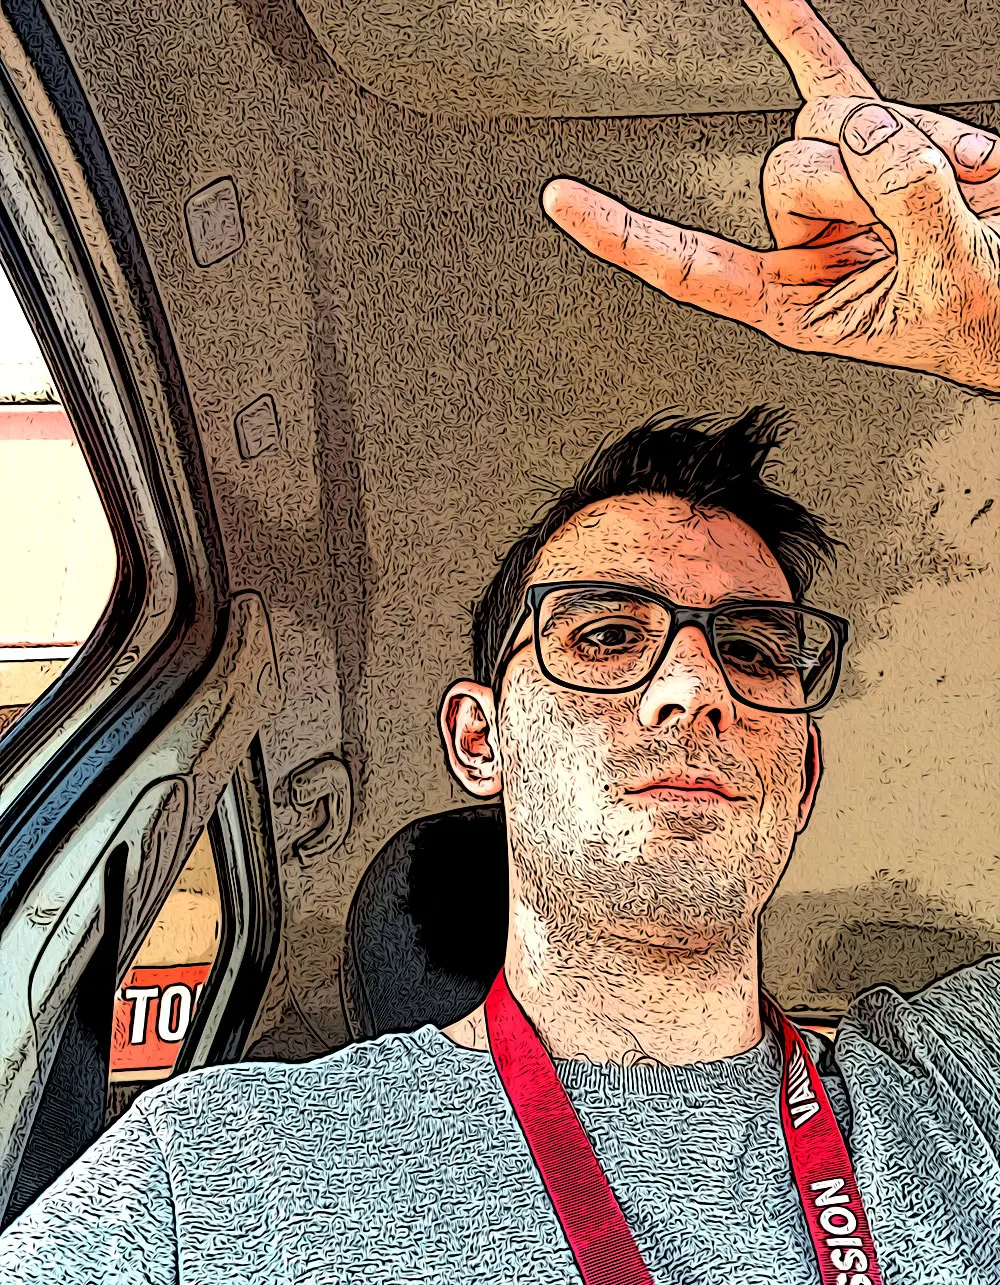
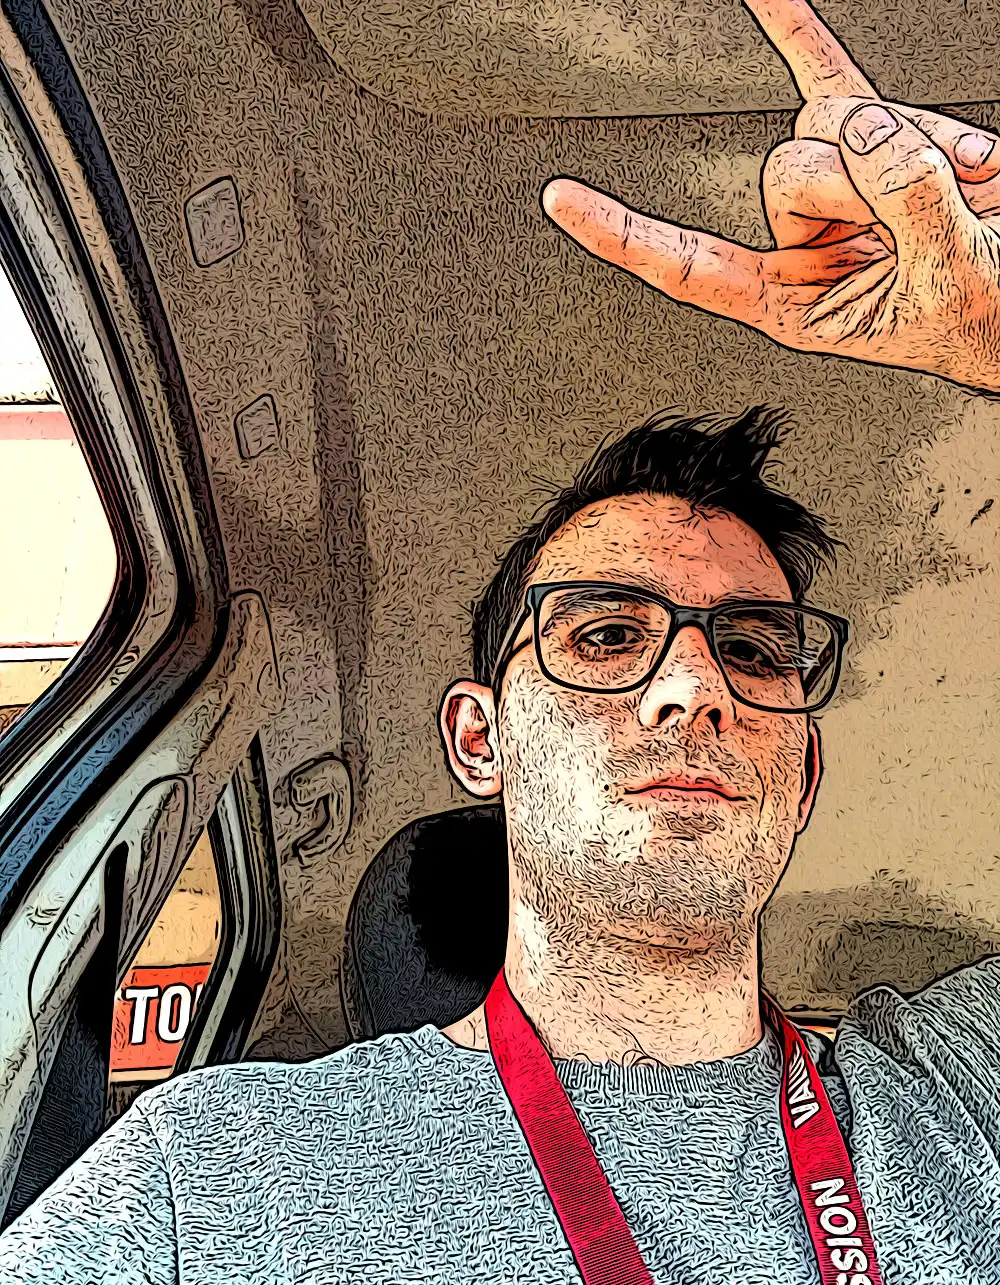
Resized rory.webp (reduced quality slightly), also added width and height attributes to Hero img

diff --git a/src/js/components/Hero.js b/src/js/components/Hero.js
@@ -78,6 +78,8 @@ export default function Hero(props) {
                 <picture className={"hero__picture"}>
                     <source srcSet={props.data.img_src_webp} type="image/webp" />
                     <img className={"hero__img"}
+                         widh="1000"
+                         height="1285"
                          src={props.data.img_src}
                          alt={props.data.img_alt_text}
                          key={props.data}
